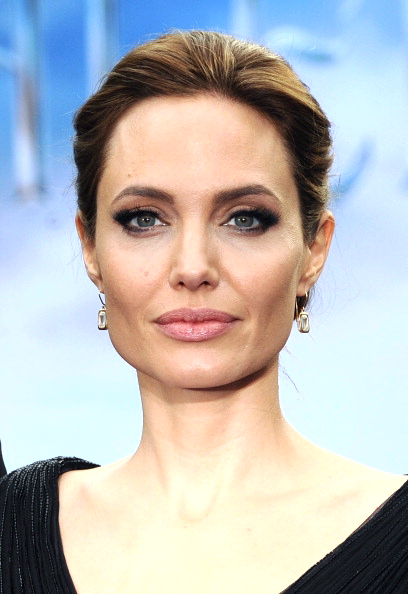
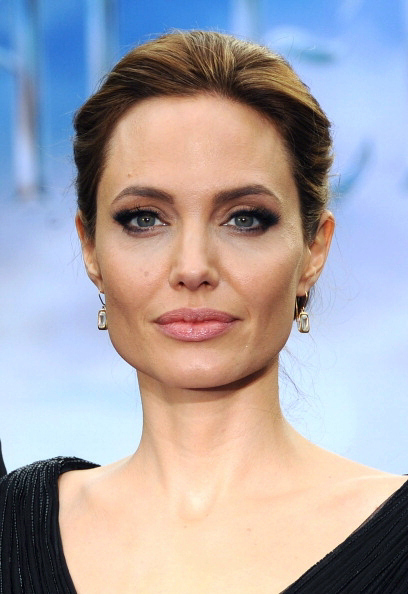
feat: finish convert shadow

diff --git a/util/adjustment.ts b/util/adjustment.ts
@@ -6,6 +6,8 @@ import { ImageData } from "canvas";
 import cv, { Mat } from "opencv-ts";
 
 class Adjustment {
+
+//OpenCV
 //fixed
 // # ## Brightness
 // # Simple brightness adjustment
@@ -44,6 +46,7 @@ static async changeAndSaveBrightnessLoop(
   }
 }
 
+//OpenCv
 //fixed
 // # ## Contrast
 // # Increases or decreases the color contrast of the image.
@@ -84,6 +87,7 @@ static async changeAndSaveContrast(
   }
 }
 
+//OpenCV
 //fixed
 //using hsv technique value is -100 to 100
 static async changeAndSaveSaturationHSV(
@@ -120,7 +124,7 @@ static async changeAndSaveSaturationHSV(
 }
 
 
-
+//OpenCv
 static async changeAndSaveHighlight(
   inputImagePath: string,
   outputImagePath: string,
@@ -155,6 +159,45 @@ static async changeAndSaveHighlight(
     console.error("Error:", error);
   }
 }
+
+// fixed
+//param value -50 to 50
+static async changeAndSaveShadow(
+  inputImagePath: string,
+  outputImagePath: string,
+  value: number,
+) {
+  if (value < -100 || value > 100) {
+    throw new Error('value value must be between -100 and 100');
+  }
+  value /= 2
+  try {
+    // Read the input image using Jimp
+    const image = await Jimp.read(inputImagePath);
+    const { data, width, height } = image.bitmap;
+    const imageData = new ImageData(new Uint8ClampedArray(data), width, height);
+    let src = cv.matFromImageData(imageData)
+    let labImage = new cv.Mat()
+    cv.cvtColor(src, labImage, cv.COLOR_BGR2Lab);
+    for (let i = 0; i < labImage.rows; i++) {
+      for (let j = 0; j < labImage.cols; j++) {
+        labImage.ucharPtr(i, j)[0] = Math.min(255, Math.max(0, labImage.ucharPtr(i, j)[0] + value));
+      }
+    }
+    let dst = new cv.Mat();
+    cv.cvtColor(labImage, dst, cv.COLOR_Lab2BGR);
+    new Jimp({
+      width: dst.cols,
+      height: dst.rows,
+      data: Buffer.from(dst.data),
+    }).write(outputImagePath);
+    console.log(`Success`);
+  } catch (error) {
+    console.error('Error:', error);
+  }
+}
+
+
 
 //fixed
 // value from -100 to 100
@@ -942,46 +985,6 @@ static async changeAndSaveTint(
         b = Math.min(255, Math.max(0, blue));
         const newColor = Jimp.rgbaToInt(r, g, b, a);
 
-        image.setPixelColor(newColor, x, y);
-      }
-    }
-
-    await image.writeAsync(outputImagePath);
-    console.log(`Success`);
-  } catch (error) {
-    console.error('Error:', error);
-  }
-}
-
-// fixed
-//param value -50 to 50
-static async changeAndSaveShadow(
-  inputImagePath: string,
-  outputImagePath: string,
-  value: number,
-) {
-  if (value < -50 || value > 50) {
-    throw new Error('value value must be between -100 and 100');
-  }
-
-  try {
-    // Read the input image using Jimp
-    const image = await Jimp.read(inputImagePath);
-    const maxFactor = 200;
-
-    for (let x = 0; x < image.bitmap.width; x++) {
-      for (let y = 0; y < image.bitmap.height; y++) {
-        const pixel = image.getPixelColor(x, y);
-        const color = Jimp.intToRGBA(pixel);
-        let { r, g, b, a } = color;
-        const brightness = Adjustment.calculateBrightness(r, g, b);
-        if (brightness < maxFactor) {
-          r = Adjustment.clamp(r - value, 0, 255);
-          g = Adjustment.clamp(g - value, 0, 255);
-          b = Adjustment.clamp(b - value, 0, 255);
-          
-        }
-        const newColor = Jimp.rgbaToInt(r, g, b, a);
         image.setPixelColor(newColor, x, y);
       }
     }

diff --git a/main.ts b/main.ts
@@ -1,4 +1,2 @@
 import Adjustment from "./util/adjustment.ts";
-Adjustment.changeAndSaveHighlight('img10.jpg', 'img10_edited.jpg', 100);
-
-// AdjustmentOpenCv.changeAndSaveBrightness('img10.jpg', 'img10_edited.jpg', 100)
+Adjustment.changeAndSaveShadow('img10.jpg', 'img10_edited.jpg', 0);
